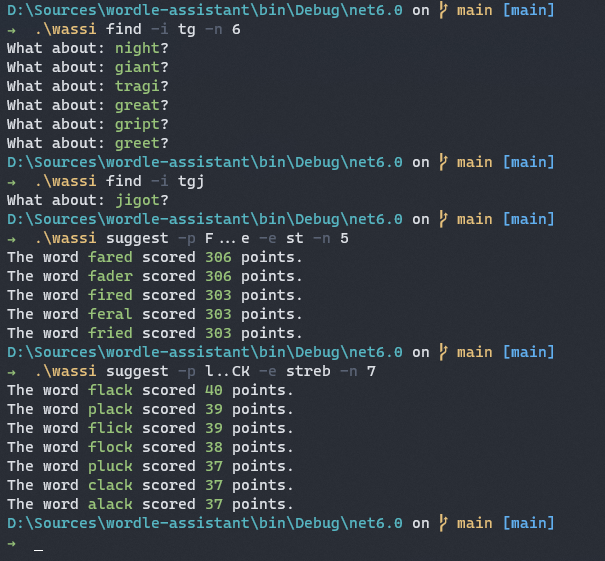
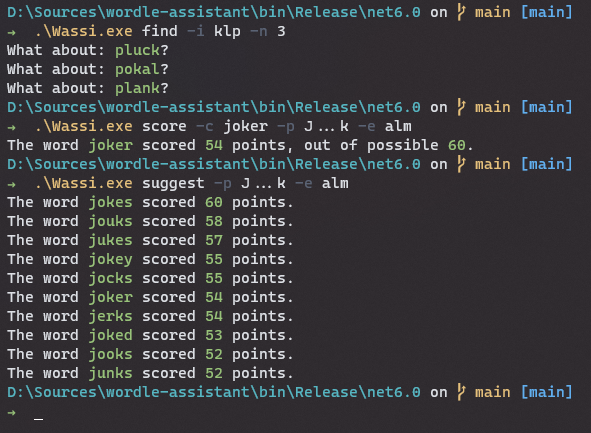
Added documentation for score command

Changed region(s): [[0.0, 0.0, 0.9746, 0.9607]]

diff --git a/README.md b/README.md
@@ -7,7 +7,7 @@ Wordle is currently abundant, and I have dabbled with it every now and then agai
 This is just a fun project. It uses a very naive counting strategy to rank words. I know there are many better tools out there that take this more seriously. I purposely didn't look at any of them, nor did I want to spend more than a day figuring this out. 
 
 ## Wassi.CLI
-Wassi (short for Wordle-assistant) uses [Spectre.Console](https://github.com/spectreconsole/spectre.console) and works command-based. It currently has two commands. 
+Wassi (short for Wordle-assistant) uses [Spectre.Console](https://github.com/spectreconsole/spectre.console) and works command-based. It currently has three commands. 
 
 ### Suggest
 The suggest command will suggest words, ranked by their score, that fit your current _progress_ and the letters you have already _excluded_. This is an example of a usage:
@@ -15,20 +15,27 @@ The suggest command will suggest words, ranked by their score, that fit your cur
 .\Wassi.exe suggest -p .A..s -e kltd -n 7
 ````
 The parameter
-* -p defines the progress. Has to be a five character string. Capital letters inidcate exact hits (green in wordle), lower-case letters occurrences in the word at the wrong position (yellow in wordle). If this parameter is omitted, it is interpreted as the starting point.
-* -e provides the excluded letters as a gap-less string. If this parameter is omitted, no letters are excluded.
-* -w provides a path to a file containing the words to be used (default: "./word-lists/words.txt").  
-* -n indicates the number of results to be shown (default: 10).
+* `(-p|--progress)` defines the progress. Has to be a five character string. Capital letters inidcate exact hits (green in wordle), lower-case letters occurrences in the word at the wrong position (yellow in wordle). If this parameter is omitted, it is interpreted as the starting point.
+* `(-e|--excluding)` provides the excluded letters as a gap-less string. If this parameter is omitted, no letters are excluded.
+* `(-w|--wordlist)` provides a path to a file containing the words to be used (default: "./word-lists/words.txt").  
+* `-n` indicates the number of results to be shown (default: 10).
 
 ### Find
 The find command helps you find a word containing given letters, which can be helpful if you want to eliminate multiple ones but can't think of a word containing them.
 ```PS
 .\Wassi.exe find -i cko
 ````
-Here, the parameter -i provides the letters that should be included. Both -w for providing the word list as well as -n for the amount of results can be used with this command as well.
+Here, the parameter `(-i|--including)` provides the letters that should be included. Both `-w` for providing the word list as well as `-n` for the amount of results can be used with this command as well.
+
+### Score
+The score command will show you the score a given word has, under the current progress, taking into account excluded letters, thereby rating it.
+```PS
+.\Wassi.exe score -c joker -p J..r. -e afv
+````
+The word that is to be raten has to be provided via `(-c|--candidate)` and it has to be exactly 5 characters long. The _progress_ and the _excluded letters_ can be optionally provided it the same way as in the suggest command.
 
 ### Sample
-Here is a small sample Wassi in action. It is based on the word list that can be [found here](https://github.com/tabatkins/wordle-list).
+Here is a small sample of Wassi in action. It is based on the word list that can be [found here](https://github.com/tabatkins/wordle-list).
 
 ![Screenshot a bingo simulation](./assets/wassi-in-action.png)
 
